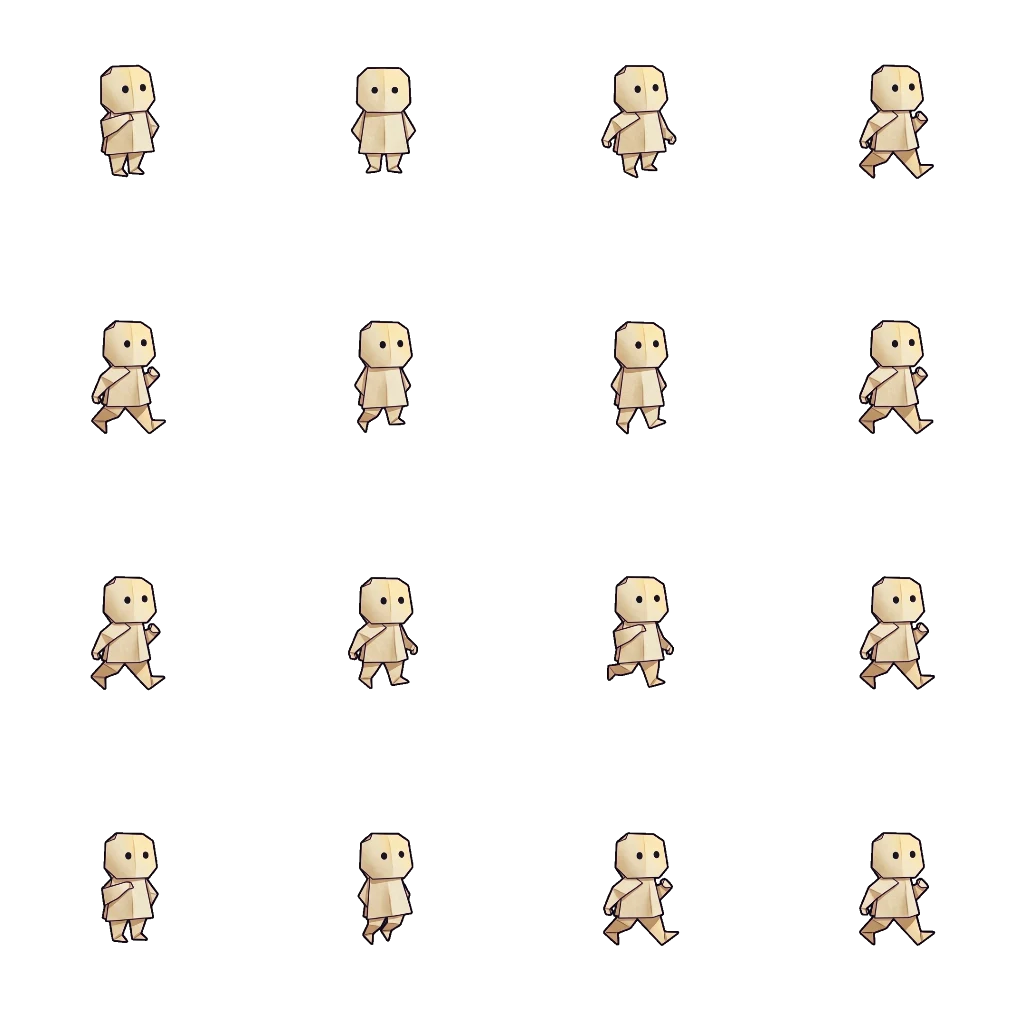
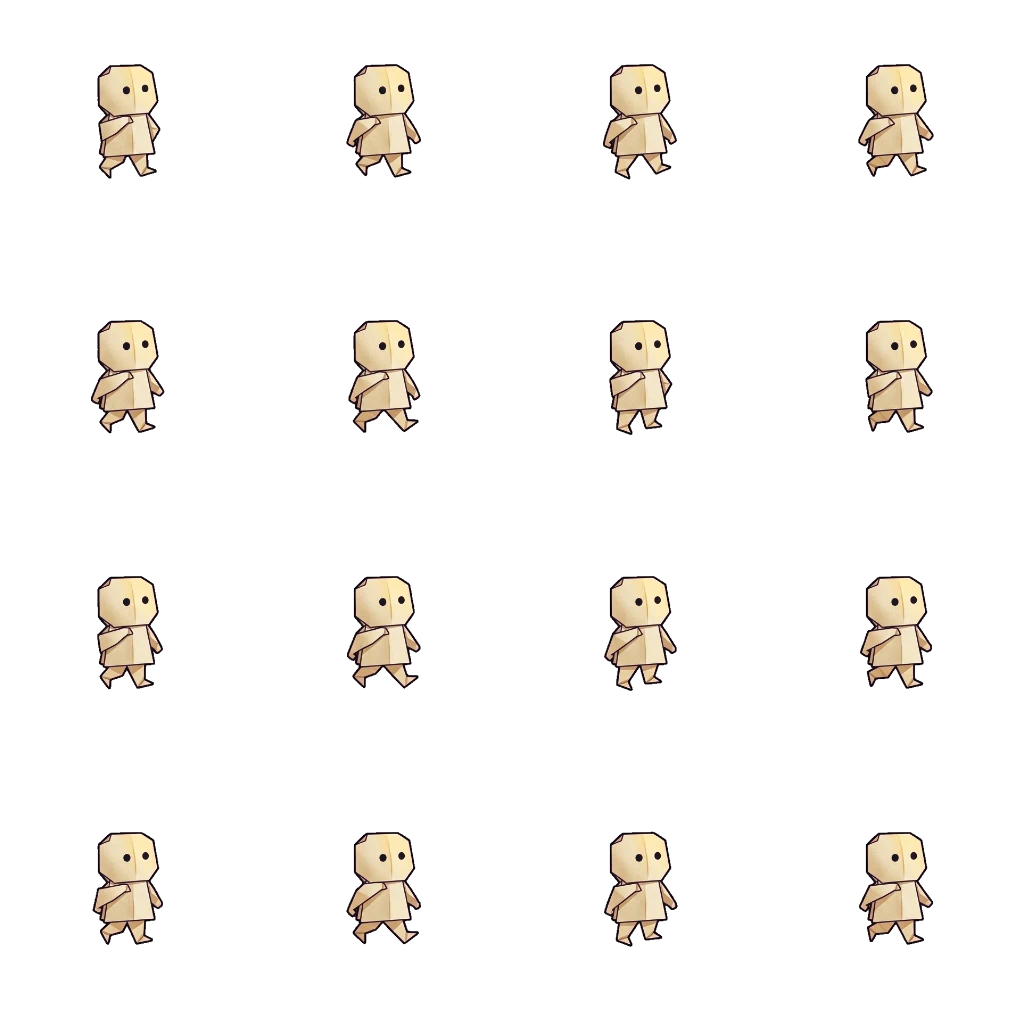
Lantern art: Pweeg, Chad and Walldorf sets complete, checkpoint lantern and warp gate; Pweeg's walk repainted
Chad's and Pweeg's walk sheets are painted from a single figure of the model
sheet (the whole sheet had its poses copied into the walk). Walldorf's pillars
are fitted to fill their columns after slicing, and the warp gate is painted
as three separate pieces that the cutter stacks into rim, stretchable tube
and base.

Claude-Session: https://claude.ai/code/session_0113tNHTKgPindyvyc4roDgT

diff --git a/src/umbrella/art/manifest.ts b/src/umbrella/art/manifest.ts
@@ -66,6 +66,10 @@ export interface SheetDef {
   tier: 0 | 1 | 2
   /** The model sheet painted first and attached BEFORE this sheet's layout. */
   model?: string
+  /** Attach only the model sheet's first figure (cards/<model>.png, cut by
+   *  `lantern-refs.py --cards`) instead of the whole sheet: a single figure has
+   *  no grid or poses to copy into the layout. */
+  modelCard?: boolean
   /** The designer's hand-drawn style reference (under SHEETS_DIR), attached
    *  FIRST: it sets the finish — cream-paper crayon, cel-shaded — never the subject. */
   styleRef?: string
@@ -183,7 +187,7 @@ export const SHEETS: SheetDef[] = [
     cols: 4, rows: 4, box: FIGURE, model: 'pweeg-model', tier: 0, fit: 'feet',
     anims: { walk: { frames: range(0, 15), fps: 0 } },
     blurb: `${PWEEG_IS}, walking to the right`, colour: PWEEG_COLOUR, view: SIDE_VIEW, one: 'Pweeg',
-    readPanels: 'One full walk cycle in 16 even steps: the two tube legs lift and swing alternately, the free arm swings opposite the legs, and the arm on his facing side stays forward (it holds a furled umbrella the game draws separately — paint NO umbrella). Panel 16 leads straight back into panel 1. His head stays the same size and at the same height band in every panel.'
+    readPanels: 'One full walk cycle in 16 even steps: the two tube legs lift and swing alternately, the free arm swings opposite the legs, and the arm on his facing side stays forward (it holds a furled umbrella the game draws separately — paint NO umbrella). Panel 16 leads straight back into panel 1. His head stays the same size and at the same height band in every panel. EVERY one of the 16 panels is a SIDE-VIEW walking stride facing right, his legs apart mid-step: none faces the viewer, none stands with its feet together.'
   },
   {
     id: 'pweeg-hover', styleRef: STYLE_WORLD, group: 'pweeg', doc: 'PROMPTS-CHARACTERS.md', title: 'Pweeg — hover under the umbrella', use: 'sprite',
@@ -207,7 +211,7 @@ export const SHEETS: SheetDef[] = [
     anims: { terminal: { frames: range(0, 15), fps: 50.9 } },
     blurb: `${PWEEG_IS}, at terminal velocity: no arms showing, his two legs stretched long and straight below him, and his eyes two BIG round goggle eyes (white rings with a dot pupil) — pure panic. Paint him the way up the reference shows; the game turns him upside down`,
     colour: PWEEG_COLOUR, view: SIDE_VIEW, one: 'Pweeg',
-    readPanels: 'A fast shiver loop: the long legs tremble a little left and right; the head and goggle eyes stay put. Panel 16 leads straight back into panel 1.'
+    readPanels: 'A fast shiver loop: the long legs tremble a little left and right; the head and goggle eyes stay put. Panel 16 leads straight back into panel 1. The goggle eyes ARE his eyes, painted on the head — NO glasses, no frames, no bridge, no lenses — and they are the same in all 16 panels. NO arms in any panel: the head sits straight on the two long legs, exactly as the reference shows.'
   },
   {
     id: 'pweeg-cheer', styleRef: STYLE_WORLD, group: 'pweeg', doc: 'PROMPTS-CHARACTERS.md', title: 'Pweeg — win dance', use: 'sprite',
@@ -256,7 +260,7 @@ export const SHEETS: SheetDef[] = [
     cols: 4, rows: 4, box: FIGURE, model: 'chad-model', tier: 2, fit: 'feet',
     anims: { idle: { frames: range(0, 15), fps: 6 } },
     blurb: `${CHAD_IS}, standing still, effortlessly cool`, colour: CHAD_COLOUR, view: SIDE_VIEW, one: 'Chad',
-    readPanels: 'A slow breathing loop: from panel 1 to 8 his head sinks a hair; from 9 to 16 he rises back. The sunglasses never come off and never change. Panel 16 leads straight back into panel 1.'
+    readPanels: 'A slow breathing loop: from panel 1 to 8 his head sinks a hair; from 9 to 16 he rises back. The sunglasses never come off and never change. Both arms hang loose at his sides in ALL 16 panels — never folded across the chest, never on a hip: only the head moves. Panel 16 leads straight back into panel 1.'
   },
   {
     id: 'chad-walk', styleRef: STYLE_WORLD, group: 'chad', doc: 'PROMPTS-CHARACTERS.md', title: 'Chad — walk cycle', use: 'sprite',
@@ -523,16 +527,16 @@ export const EXTRA_SHEETS: SheetDef[] = [
     id: 'gate', group: 'world', doc: 'PROMPTS-LANTERN.md', title: 'Warp gate — rim, tube, base', use: 'sprite',
     cols: 1, rows: 3, tier: 0, fit: 'none', fresh: true, anims: {},
     shape: [
-      'WHAT COMES BACK IS ONE WARP PIPE FILLING THE WHOLE IMAGE, NOT A SCENE.',
-      'One square image, 1024 x 1024 pixels, holding ONE short fat pipe standing upright, as wide as the image at its rim, read as three horizontal bands of equal height (the game cuts it there): the TOP third is the rim and its mouth, the MIDDLE third is plain straight tube, the BOTTOM third is the base.',
-      '· One pipe. Not a row of pipes, not a pipe in a landscape.',
-      '· THE BAND LINES ARE EXACT: the rim, its mouth, its crest and the little torii ALL end above y = 341 (one third down); the base starts at y = 683 (two thirds down). Nothing crosses either line: no rim edge, no beam, no torii leg, no shadow. Between the lines there is only plain tube.'
+      'WHAT COMES BACK IS ONE WARP PIPE TAKEN APART INTO THREE SEPARATE PIECES, NOT A SCENE.',
+      'One square image, 1024 x 1024 pixels, holding THREE separate pieces of one short fat pipe, stacked one above the other with a clear band of flat magenta between each piece, exactly where the layout reference puts its three pieces: the TOP piece is the rim and its mouth, the MIDDLE piece is a short section of plain straight tube, the BOTTOM piece is the base ring. The game puts them back together itself.',
+      '· The pieces do NOT touch: magenta all the way across between the rim and the tube, and between the tube and the base.',
+      '· Each piece is as wide as the reference draws it: the rim widest, nearly the full image width; the tube a little narrower; the base a little wider than the tube.'
     ],
-    blurb: 'the WARP GATE: a fat green bamboo pipe dressed like a little torii gate — TOP THIRD: a wide rim of green-lacquered bamboo with a small red-lacquered torii crossbeam and two short posts across its front, and the mouth at its top a dark opening with a swirling glowing teal portal; MIDDLE THIRD: a plain straight green bamboo tube a little narrower than the rim, with ONE bamboo node line only at its very top and very bottom edges; BOTTOM THIRD: the same tube ending on a dark lacquer base ring',
+    blurb: 'the WARP GATE, a fat green bamboo pipe dressed like a little torii gate, in three pieces — TOP PIECE: a wide rim of green-lacquered bamboo with ONE red-lacquered torii beam laid flat along the rim\'s front band (NO posts, legs or pillars hanging down from it), and the mouth at its top a dark oval opening, seen a little from above, holding a swirling glowing teal portal — the portal is ONLY inside that oval mouth, never a circle, ring or window on the rim\'s front; MIDDLE PIECE: a short section of plain straight green bamboo tube, cut flat at its top and bottom, with nothing on it — no band, node, window, portal or emblem; BOTTOM PIECE: a dark lacquer base ring',
     colour: 'green-lacquered bamboo (#3fae5a) with a darker green fold shadow (#21733a) and a pale lit edge, a small red torii beam (#c8402f), a teal portal glow (#7fe8d0) inside the mouth only, a dark lacquer base (#2a1d3a)',
     view: 'flat front-on, square on, no perspective — the mouth seen just a little from above.',
-    note: 'The game STRETCHES the middle third to any height: it must be a plain straight tube that looks the same at its top edge and its bottom edge.',
-    check: ['· ONE pipe filling the image; the rim spans the full width, the tube a little narrower.', '· The rim and the torii end above one third of the height; the base starts at two thirds; the middle third is a plain straight tube.']
+    note: 'The game STRETCHES the middle piece to any height: it must be plain straight tube that looks the same along its whole height.',
+    check: ['· THREE separate pieces, top to bottom: rim, plain tube section, base — magenta between them.', '· The rim is the widest piece; the tube section is plain green with nothing on it.']
   }
 ]
 

diff --git a/src/umbrella/art/lantern.ts b/src/umbrella/art/lantern.ts
@@ -69,7 +69,7 @@ export const LANTERN_SHEETS: SheetDef[] = [
     blurb: `${KAMI_IS}. This is his MODEL SHEET: the one picture every later animation of him is painted from. He is the concept art's paper figure, copied faithfully — the same cube head, pleated body, chunky limbs, paper colour and ink face — only posed like the layout reference`
   }),
   pweeg('pweeg-idle'),
-  pweeg('pweeg-walk'),
+  pweeg('pweeg-walk', { modelCard: true }),
   pweeg('pweeg-hover', {
     blurb: `${KAMI_IS}, floating calmly with a small content smile: both arms raised straight up above his head and BOTH HANDS TOGETHER, gripping one single handle at one point (the parasol itself is painted separately — paint NO parasol; the two hands meet in the air, touching, never apart), his legs dangling loose`
   }),
@@ -90,8 +90,8 @@ export const LANTERN_SHEETS: SheetDef[] = [
   chad('chad-model', {
     blurb: `${PAPER_CHAD_IS}. This is his MODEL SHEET, painted after Pweeg's: his body is Pweeg's body exactly (copy it from the attached painted model sheet of Pweeg), only the sunglasses and his cool attitude are his own`
   }),
-  chad('chad-idle'),
-  chad('chad-walk'),
+  chad('chad-idle', { modelCard: true }),
+  chad('chad-walk', { modelCard: true }),
   chad('chad-hover', {
     blurb: `${PAPER_CHAD_IS}, floating relaxed: both arms raised straight up above his head and BOTH HANDS TOGETHER gripping one single handle at one point (paint NO parasol; the two hands meet in the air, touching), legs dangling loose`
   }),
@@ -134,7 +134,7 @@ export const LANTERN_SHEETS: SheetDef[] = [
     fresh: true,
     blurb: 'a small checkpoint: a slim bamboo pole standing straight up with a short curved arm at its top, and a round paper lantern hanging from that arm on the RIGHT side of the pole, where the reference\'s pennant flies',
     colour: 'waiting: an UNLIT lantern of pale grey-blue paper (#aeb4c4) with darker grey ribs, dull; reached: a LIT lantern glowing warm cream-gold from inside (#ffd98a, the glow kept INSIDE the paper) with a small red tassel; pole pale bamboo (#d9b77a), thin deep plum-indigo cut edge (#2a1d3a)',
-    readPanels: 'Panels 1–4: WAITING — the unlit grey lantern hanging almost still, the faintest sway. Panels 5–16: REACHED — the lit golden lantern swaying gently in an even loop, its tassel swinging, panel 16 leading back into panel 5. The pole never moves, and the lantern is the same size in every panel.'
+    readPanels: 'Panels 1–4: WAITING — the unlit grey lantern hanging almost still, the faintest sway. Panels 5–16: REACHED — the lit golden lantern swaying gently in an even loop, its tassel swinging, panel 16 leading back into panel 5. The whole TOP ROW is unlit grey and only the top row; every lantern in the three rows below is lit gold with its tassel, the bottom-right one included. Paint NO numbers, labels, lines or frames on the sheet: only the sixteen lanterns on one unbroken magenta ground. The pole never moves, and the lantern is the same size in every panel.'
   }),
   world('props', {
     title: 'Props — floor button (up, pressed) and paper spikes',
@@ -144,9 +144,9 @@ export const LANTERN_SHEETS: SheetDef[] = [
   }),
   foe('walldorf-body', {
     title: 'Walldorf — body (three paper pillars)',
-    blurb: 'Walldorf\'s body: three tall folded-paper pillar spirits standing side by side, each exactly one panel wide and the full height of the image, a rounded top, straight sides, a rounded bottom. NO face, no eyes, no mouth: the game paints his face on separately. Left: the DEADLY one, a red-lacquered paper pillar with a gold rim at its top and bottom and a faint dragon-scale pattern pressed into its caps. Middle: the SOLID one, a grey stone-paper lantern column of pale grey card. Right: the BOUNCY one, an amber paper column with springy accordion pleats in its top and bottom caps',
+    blurb: 'Walldorf\'s body: three tall folded-paper pillar spirits standing side by side, each exactly one panel wide and the full height of the image, a rounded top, straight sides, a rounded bottom. NO face, no eyes, no mouth: the game paints his face on separately. Left: the DEADLY one, a red-lacquered paper pillar with a gold rim at its top and bottom and a faint dragon-scale pattern pressed into its caps. Middle: the SOLID one, a plain column of pale grey stone-paper card, the SAME simple shape as the other two — straight sides, a rounded top, a rounded bottom; no roof, no windows, no tiers, no steps, no plinth. THE COLOURED BLOCKS IN THE LAYOUT REFERENCE ARE THE PILLARS THEMSELVES, not backgrounds: each pillar covers its block exactly, and everything around the three pillars is flat magenta. Right: the BOUNCY one, an amber paper column with springy accordion pleats in its top and bottom caps',
     colour: 'left lacquer red (#c8402f) with a gold rim (#f2b544), middle stone grey (#9aa0ac), right bright amber (#f0a830) — each with ONE fold-shadow facet down its right side and a lit facet down its left, and a thin deep plum-indigo cut edge (#2a1d3a)',
-    note: 'The game CUTS each pillar into three: its top cap (row 1), its middle (row 2) and its bottom cap (row 3), and STRETCHES the middle to any height. So the scales, the pleats and the rims stay in the top and bottom thirds; the middle third of each pillar is plain straight paper of its colour, exactly the same at its top edge as at its bottom edge.'
+    note: 'The game CUTS each pillar into three: its top cap (row 1), its middle (row 2) and its bottom cap (row 3), and STRETCHES the middle to any height. So the scales, the pleats and the rims stay in the top and bottom thirds; the middle third of each pillar is plain straight paper of its colour, exactly the same at its top edge as at its bottom edge. THE BAND LINES ARE EXACT: on a 1024 px image every cap, rim, band and pleat ends above y = 320 and the bottom ones start below y = 705; nothing at all crosses y = 341 or y = 683 but the pillar\'s two straight sides. All three pillars are the SAME width, the full width of their panel, from top to bottom: no roof, ledge, collar or band sticking out wider than the shaft, and no shaft narrower than its caps.'
   }),
   foe('walldorf-face', {
     title: 'Walldorf — paper face (calm, angry, charging, bump)',

diff --git a/src/umbrella/art/prompts.ts b/src/umbrella/art/prompts.ts
@@ -20,7 +20,7 @@ const panels = (s: SheetDef): number => s.cols * s.rows
 
 /** The images attached ahead of the layout reference, in order: the
  *  designer's style sheet first, then the painted model sheet, the layout last. */
-export const alsoOf = (s: SheetDef): string[] => [...(s.styleRef ? [s.styleRef] : []), ...(s.model ? [`painted/${s.model}.png`] : [])]
+export const alsoOf = (s: SheetDef): string[] => [...(s.styleRef ? [s.styleRef] : []), ...(s.model ? [s.modelCard ? `cards/${s.model}.png` : `painted/${s.model}.png`] : [])]
 
 const KITE_GROUPS = new Set(['kite', 'chad-kite'])
 const FIGURE_GROUPS = new Set(['pweeg', 'chad', 'kite', 'chad-kite'])
@@ -124,7 +124,9 @@ const notLine = (s: SheetDef, look: Look): string[] => {
   if (s.model) {
     n++
     const model = sheetById(s.model)
-    out.push(`· The ${n === 1 ? 'FIRST' : 'SECOND'} attached image is the finished MODEL SHEET of ${NAMES[model?.group ?? 'pweeg']} — his approved design. Copy his body, face, limbs, colours, line and shading from it EXACTLY. Take NO layout from it: the grid, the poses and the positions all come from the LAST attached image.`)
+    out.push(s.modelCard
+      ? `· The ${n === 1 ? 'FIRST' : 'SECOND'} attached image is ONE finished figure of ${NAMES[model?.group ?? 'pweeg']}, cut from his approved model sheet. Copy his body, face, limbs, colours, line and shading from it EXACTLY. It is a single figure, not a layout: the grid, the poses and the positions all come from the LAST attached image.`
+      : `· The ${n === 1 ? 'FIRST' : 'SECOND'} attached image is the finished MODEL SHEET of ${NAMES[model?.group ?? 'pweeg']} — his approved design. Copy his body, face, limbs, colours, line and shading from it EXACTLY. Take NO layout from it: the grid, the poses and the positions all come from the LAST attached image.`)
   }
   if (also.length) out.push(`· ${also.length + 1} images are attached; the LAST one is the layout reference.`)
   return out

diff --git a/scripts/art/lantern-refs.py b/scripts/art/lantern-refs.py
@@ -2,15 +2,18 @@
 
     python scripts/art/lantern-refs.py          # writes art-sheets/umbrella-lantern/{collect,gate}.png
     python scripts/art/lantern-refs.py --cut    # keys painted/gate.png → src/assets/umbrella-art-lantern/gate.webp
+    python scripts/art/lantern-refs.py --cards  # painted/chad-model.png panel 1 → cards/chad-model.png
+    python scripts/art/lantern-refs.py --fit-pillars  # after slicing: each Walldorf pillar fills its column
 
 The collectibles and the warp gate have no kite sheet (src/umbrella/art/manifest.ts,
 EXTRA_SHEETS). Their references are NOTATION on the magenta ground: where each
 thing sits and how big it is, nothing about its look.
 
 - collect.png: a 2 x 2 set on the slicer's 256 px panel, cut by `pnpm art:slice:lantern`.
-- gate.png: ONE pipe whose three equal horizontal bands are rim / tube / base. It is
-  not a lattice the slicer can register, so `--cut` keys and encodes it directly; the
-  game cuts the bands itself (paint.ts `gate`).
+- gate.png: ONE pipe in three SEPARATE pieces (rim / plain tube section / base) with
+  magenta between them, because a painter never lands one pipe's band lines on the thirds.
+  `--cut` keys it, takes the three pieces apart and stacks them into three equal bands
+  (`register_gate`); the game cuts the bands itself (paint.ts `gate`).
 """
 import math
 import sys
@@ -61,10 +64,12 @@ def gate() -> None:
     im = Image.new('RGB', (n, n), MAGENTA)
     d = ImageDraw.Draw(im)
     green, dark = (34, 163, 90), (11, 61, 34)
-    d.rectangle([n * 0.12, third, n * 0.88, n - third * 0.25], fill=green, outline=INK, width=6)
-    d.rectangle([n * 0.1, n - third * 0.3, n * 0.9, n - 4], fill=INK)
-    d.rectangle([4, 4, n - 5, third], fill=green, outline=INK, width=6)
-    d.ellipse([n * 0.12, third * 0.18, n * 0.88, third * 0.75], fill=dark, outline=INK, width=4)
+    gap = third * 0.12
+    # Rim with its mouth, a short plain tube section, the base ring: apart, magenta between.
+    d.rectangle([4, 4, n - 5, third - gap], fill=green, outline=INK, width=6)
+    d.ellipse([n * 0.12, third * 0.14, n * 0.88, third * 0.66], fill=dark, outline=INK, width=4)
+    d.rectangle([n * 0.12, third + gap, n * 0.88, 2 * third - gap], fill=green)
+    d.rectangle([n * 0.1, 2 * third + gap, n * 0.9, n - 4], fill=INK)
     im.save(SHEETS / 'gate.png')
 
 
@@ -86,14 +91,60 @@ def key(img: Image.Image) -> Image.Image:
     return img
 
 
+def register_gate(img: Image.Image) -> Image.Image:
+    """The painted gate is three separate pieces (rim, a short plain tube section, base) with
+    magenta between them. Find the three biggest pieces, top to bottom, and stack them into three
+    equal bands, each centred at the width it was painted. The tube section loses a few rows top
+    and bottom (its cut edges' ink) because the game stretches it. Refuses loudly when the pieces
+    are not three, or touch."""
+    import numpy as np
+    from scipy import ndimage as ndi
+    a = np.asarray(img)
+    lab, k = ndi.label(a[..., 3] > 128)
+    if k < 3:
+        sys.exit(f'gate: {k} piece(s) painted, not three separate ones -- repaint it')
+    sizes = ndi.sum(np.ones(lab.shape), lab, index=np.arange(1, k + 1))
+    big = sorted(np.argsort(sizes)[::-1][:3] + 1, key=lambda i: ndi.find_objects(lab == i)[0][0].start)
+    boxes = [ndi.find_objects((lab == i).astype(int))[0] for i in big]
+    if sizes[big[2] - 1] < 0.02 * a.shape[0] * a.shape[1]:
+        sys.exit('gate: the third piece is a speck, not a base -- repaint it')
+    third = img.height // 3
+    # The tube piece is painted as a short ring, often seen a little from above: its top
+    # shows the opening and its bottom curves. Only its plainest strip of front face is
+    # stretchable — the 30 % of its height that changes least from row to row.
+    (ty, tx) = boxes[1]
+    th = ty.stop - ty.start
+    rgb = a[ty.start:ty.stop, tx.start:tx.stop, :3].astype(np.float32)
+    diff = np.abs(np.diff(rgb, axis=0)).mean(axis=(1, 2))
+    span = max(4, int(th * 0.3))
+    lo, hi = int(th * 0.15), th - int(th * 0.15) - span
+    s0 = min(range(lo, max(lo + 1, hi)), key=lambda y: diff[y:y + span].mean())
+    tube = img.crop((tx.start, ty.start + s0, tx.stop, ty.start + s0 + span)).resize((tx.stop - tx.start, third), Image.LANCZOS)
+    out = Image.new('RGBA', (img.width, third * 3), (0, 0, 0, 0))
+    left = (img.width - tube.width) // 2
+    # Behind the rim's lower half: the tube's top row drawn down, so the rim's curved bottom
+    # edge sits ON the tube (no notches of sky) and meets the tube band without a seam.
+    out.alpha_composite(tube.crop((0, 0, tube.width, 1)).resize((tube.width, third // 2)), (left, third - third // 2))
+    # The base ring is seen a little from above too: keep its front band only (below its
+    # opening), so its top is the straight edge the tube stands on.
+    (bys, bxs) = boxes[2]
+    base_top = bys.start + int((bys.stop - bys.start) * 0.35)
+    crops = [(boxes[0][1].start, boxes[0][0].start, boxes[0][1].stop, boxes[0][0].stop), None, (bxs.start, base_top, bxs.stop, bys.stop)]
+    for n, (ys, xs) in enumerate(boxes):
+        piece = tube if n == 1 else img.crop(crops[n]).resize((xs.stop - xs.start, third), Image.LANCZOS)
+        out.alpha_composite(piece, ((img.width - piece.width) // 2, n * third))
+        print(f'gate piece {n + 1}: x {xs.start}-{xs.stop}, y {ys.start}-{ys.stop}' + (f' (strip {ty.start + s0}-{ty.start + s0 + span})' if n == 1 else ''))
+    return out
+
+
 def cut() -> None:
     src = next((SHEETS / 'painted' / f'gate{ext}' for ext in ('.png', '.jpg', '.webp') if (SHEETS / 'painted' / f'gate{ext}').exists()), None)
     if src is None:
         sys.exit('no painted/gate.* to cut')
-    out = key(Image.open(src)).resize((PANEL, PANEL), Image.LANCZOS)
+    out = register_gate(key(Image.open(src))).resize((PANEL, PANEL), Image.LANCZOS)
     SHIPPED.mkdir(parents=True, exist_ok=True)
     out.save(SHIPPED / 'gate.webp', 'WEBP', quality=88, method=6)
-    print(f'gate.webp {out.size} ← {src.name}')
+    print(f'gate.webp {out.size} from {src.name}')
 
 
 def clean_wisps() -> None:
@@ -122,8 +173,55 @@ def clean_wisps() -> None:
     print(f'wind-wisps.webp: {dropped} border slivers removed')
 
 
+def cards() -> None:
+    """A model sheet's first figure (side view, standing) on its own: attached to an animation
+    sheet that sets `modelCard` (manifest.ts) in place of the whole 3 x 3 sheet, whose grid and
+    poses the painter otherwise copies into the layout."""
+    out_dir = SHEETS / 'cards'
+    out_dir.mkdir(exist_ok=True)
+    for name in ('pweeg-model', 'chad-model'):
+        src = SHEETS / 'painted' / f'{name}.png'
+        if not src.exists():
+            print(f'{name}: not painted yet')
+            continue
+        im = Image.open(src).convert('RGB')
+        w, h = im.size
+        card = im.crop((0, 0, w // 3, h // 3)).resize((512, 512), Image.LANCZOS)
+        card.save(out_dir / f'{name}.png')
+        print(f'cards/{name}.png: panel 1 of painted/{name}.png')
+
+
+def fit_pillars() -> None:
+    """The game draws Walldorf's caps square to his hitbox (paint.ts `walldorf`), but a painter
+    leaves a margin round each pillar, so a painted pillar is narrower and shorter than what it
+    hits with. Per column of the sliced body, crop the pillar to its own outline and scale it to
+    fill the column: caps, middle and caps keep their order and stay in their thirds."""
+    import numpy as np
+    from scipy import ndimage as ndi
+    p = SHIPPED / 'walldorf-body.webp'
+    im = Image.open(p).convert('RGBA')
+    cw = im.width // 3
+    out = Image.new('RGBA', im.size, (0, 0, 0, 0))
+    for c in range(3):
+        col = np.array(im.crop((c * cw, 0, (c + 1) * cw, im.height)))
+        # Only this column's pillar: a neighbour's cap can reach over the column line.
+        lab, k = ndi.label(col[..., 3] > 24)
+        own = lab == 1 + int(np.argmax(ndi.sum(np.ones(lab.shape), lab, index=np.arange(1, k + 1))))
+        col[~ndi.binary_dilation(own, iterations=2), 3] = 0
+        col = Image.fromarray(col, 'RGBA')
+        ys, xs = np.nonzero(own.any(axis=1))[0], np.nonzero(own.any(axis=0))[0]
+        box = (int(xs[0]), int(ys[0]), int(xs[-1]) + 1, int(ys[-1]) + 1)
+        out.paste(col.crop(box).resize((cw, im.height), Image.LANCZOS), (c * cw, 0))
+        print(f'pillar {c + 1}: {box} -> {cw}x{im.height}')
+    out.save(p, 'WEBP', quality=88, method=6)
+
+
 if __name__ == '__main__':
-    if '--clean-wisps' in sys.argv:
+    if '--fit-pillars' in sys.argv:
+        fit_pillars()
+    elif '--cards' in sys.argv:
+        cards()
+    elif '--clean-wisps' in sys.argv:
         clean_wisps()
     elif '--cut' in sys.argv:
         cut()

diff --git a/changelog.md b/changelog.md
@@ -12,6 +12,9 @@ Umbrella — changelog (newest first)
 - [x] Sounds reverted to their Revision 7 state (sound kit, music, mix and engine); the Revision 9 sound pass is gone, the Walldorf and Prickbait sounds stay. The intro's whoosh/cool, the button and the checkpoint borrow the closest Revision 7 sounds
 
 == Revision 12 — 2026-10-29 ==
+- [x] The Community button appears once the player has won level 10: the first ten levels keep the bar to the game itself
+- [x] Lantern Pweeg's walk repainted: all sixteen frames are side-view strides (three of the old ones stood still or faced the viewer, a hitch in the walk)
+- [x] Lantern art, second batch: Pweeg's terminal fall, Chad's idle and walk, the checkpoint lantern (grey while waiting, lit gold once reached) and the Walldorf pillars sliced in, so the paper Pweeg, the paper Chad and the paper Walldorf now show in the lantern build; each Walldorf pillar is fitted to fill its hitbox; Chad's sheets are painted from a single figure of his model sheet (the whole sheet got its poses copied); the warp gate is painted as three separate pieces (rim with its portal and torii beam, a tube section, the base ring) and the cutter stacks them: the tube's plainest strip becomes the part the game stretches, so the gate reads as one pipe at any height
 - [x] Lantern art sliced in: Prickbait (a snarling red paper firecracker mine), the fan (wooden housing, paper pinwheel rotor), the paper collectibles (gold star, umbrella, cloud), the paper floor button and red paper spikes, and the switch blocks; Pweeg's hover, fall, splat, flattened and front sheets, Chad's hover and the Walldorf faces wait in the build until their sets are complete (Pweeg's terminal fall, Chad's idle and walk, the Walldorf body)
 - [x] Art moodboards (/umbrella/art-moodboards/): concept 11, "Honeyhill Puff" — a round puffball hero, cute, cozy and warm with crisp sharp detail, over autumn bakery hills — with all six panels and Claude's reference rating
 - [x] Lantern wind as gliding gust streaks: each painted paper ribbon keeps its own swoosh-and-curl shape and slides down the current at its own pace (lanes still gusting and swaying slowly), instead of bending along a moving curve whose bends crawled backwards against the flow
